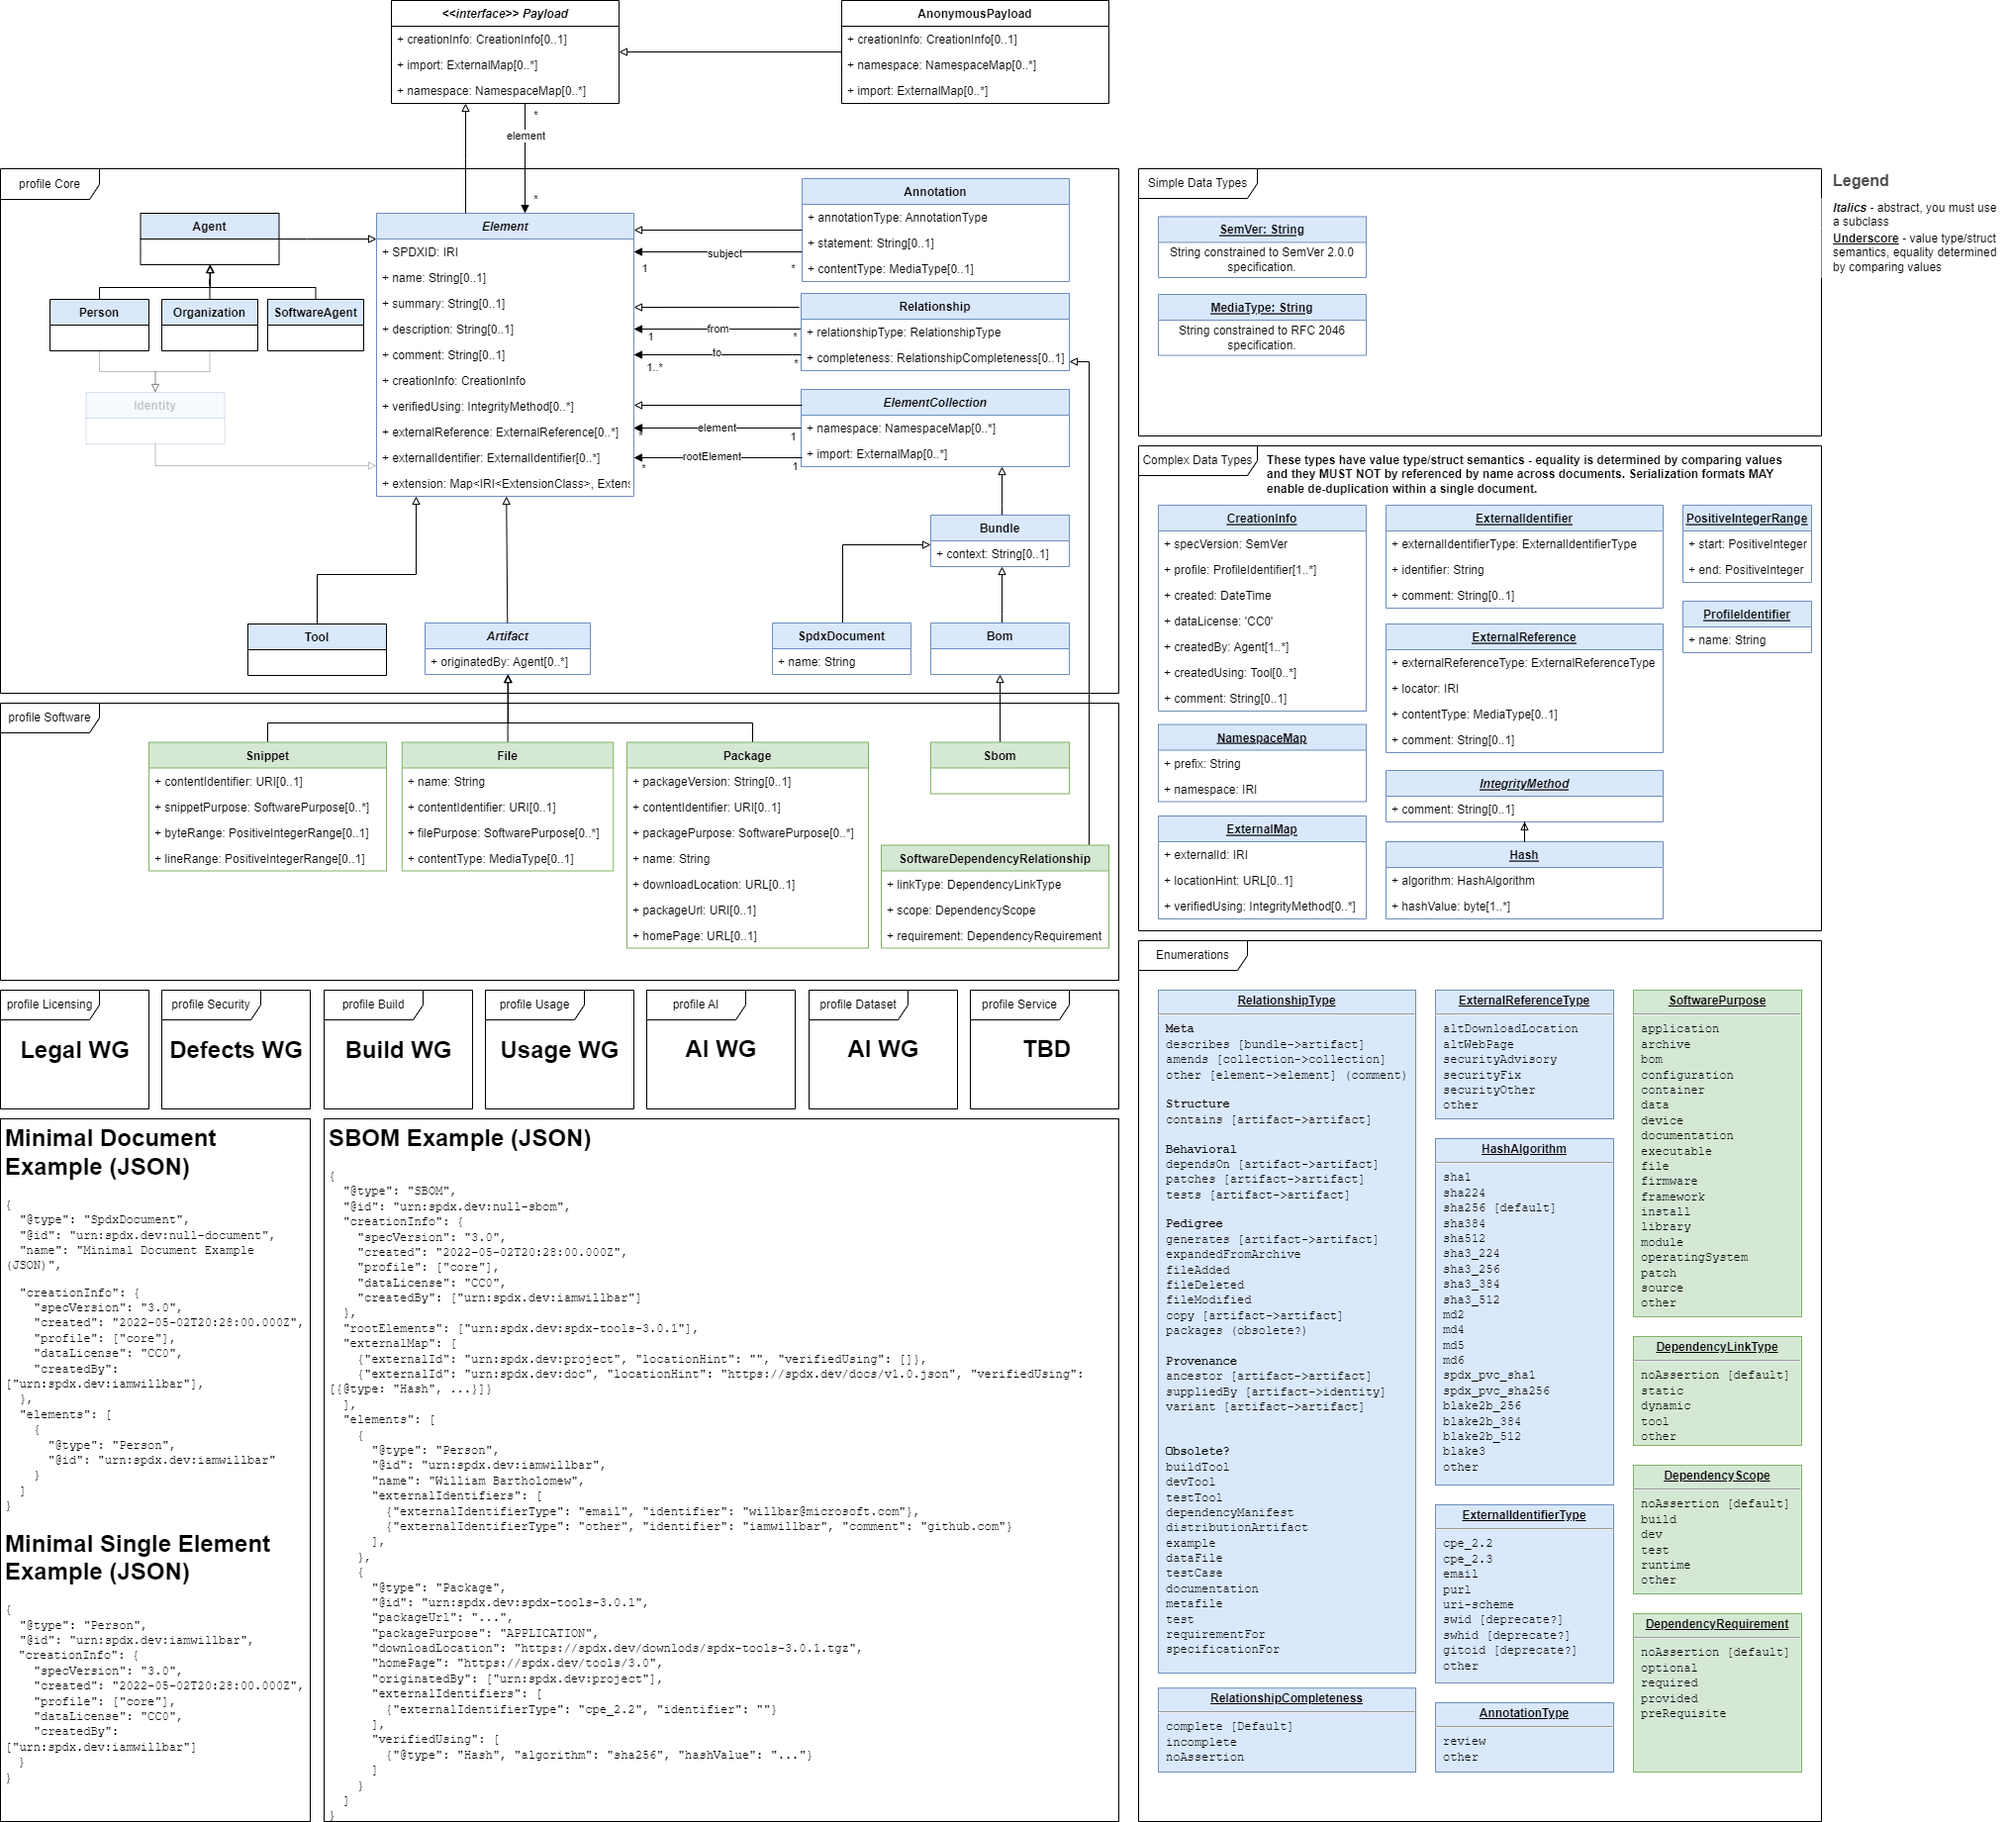
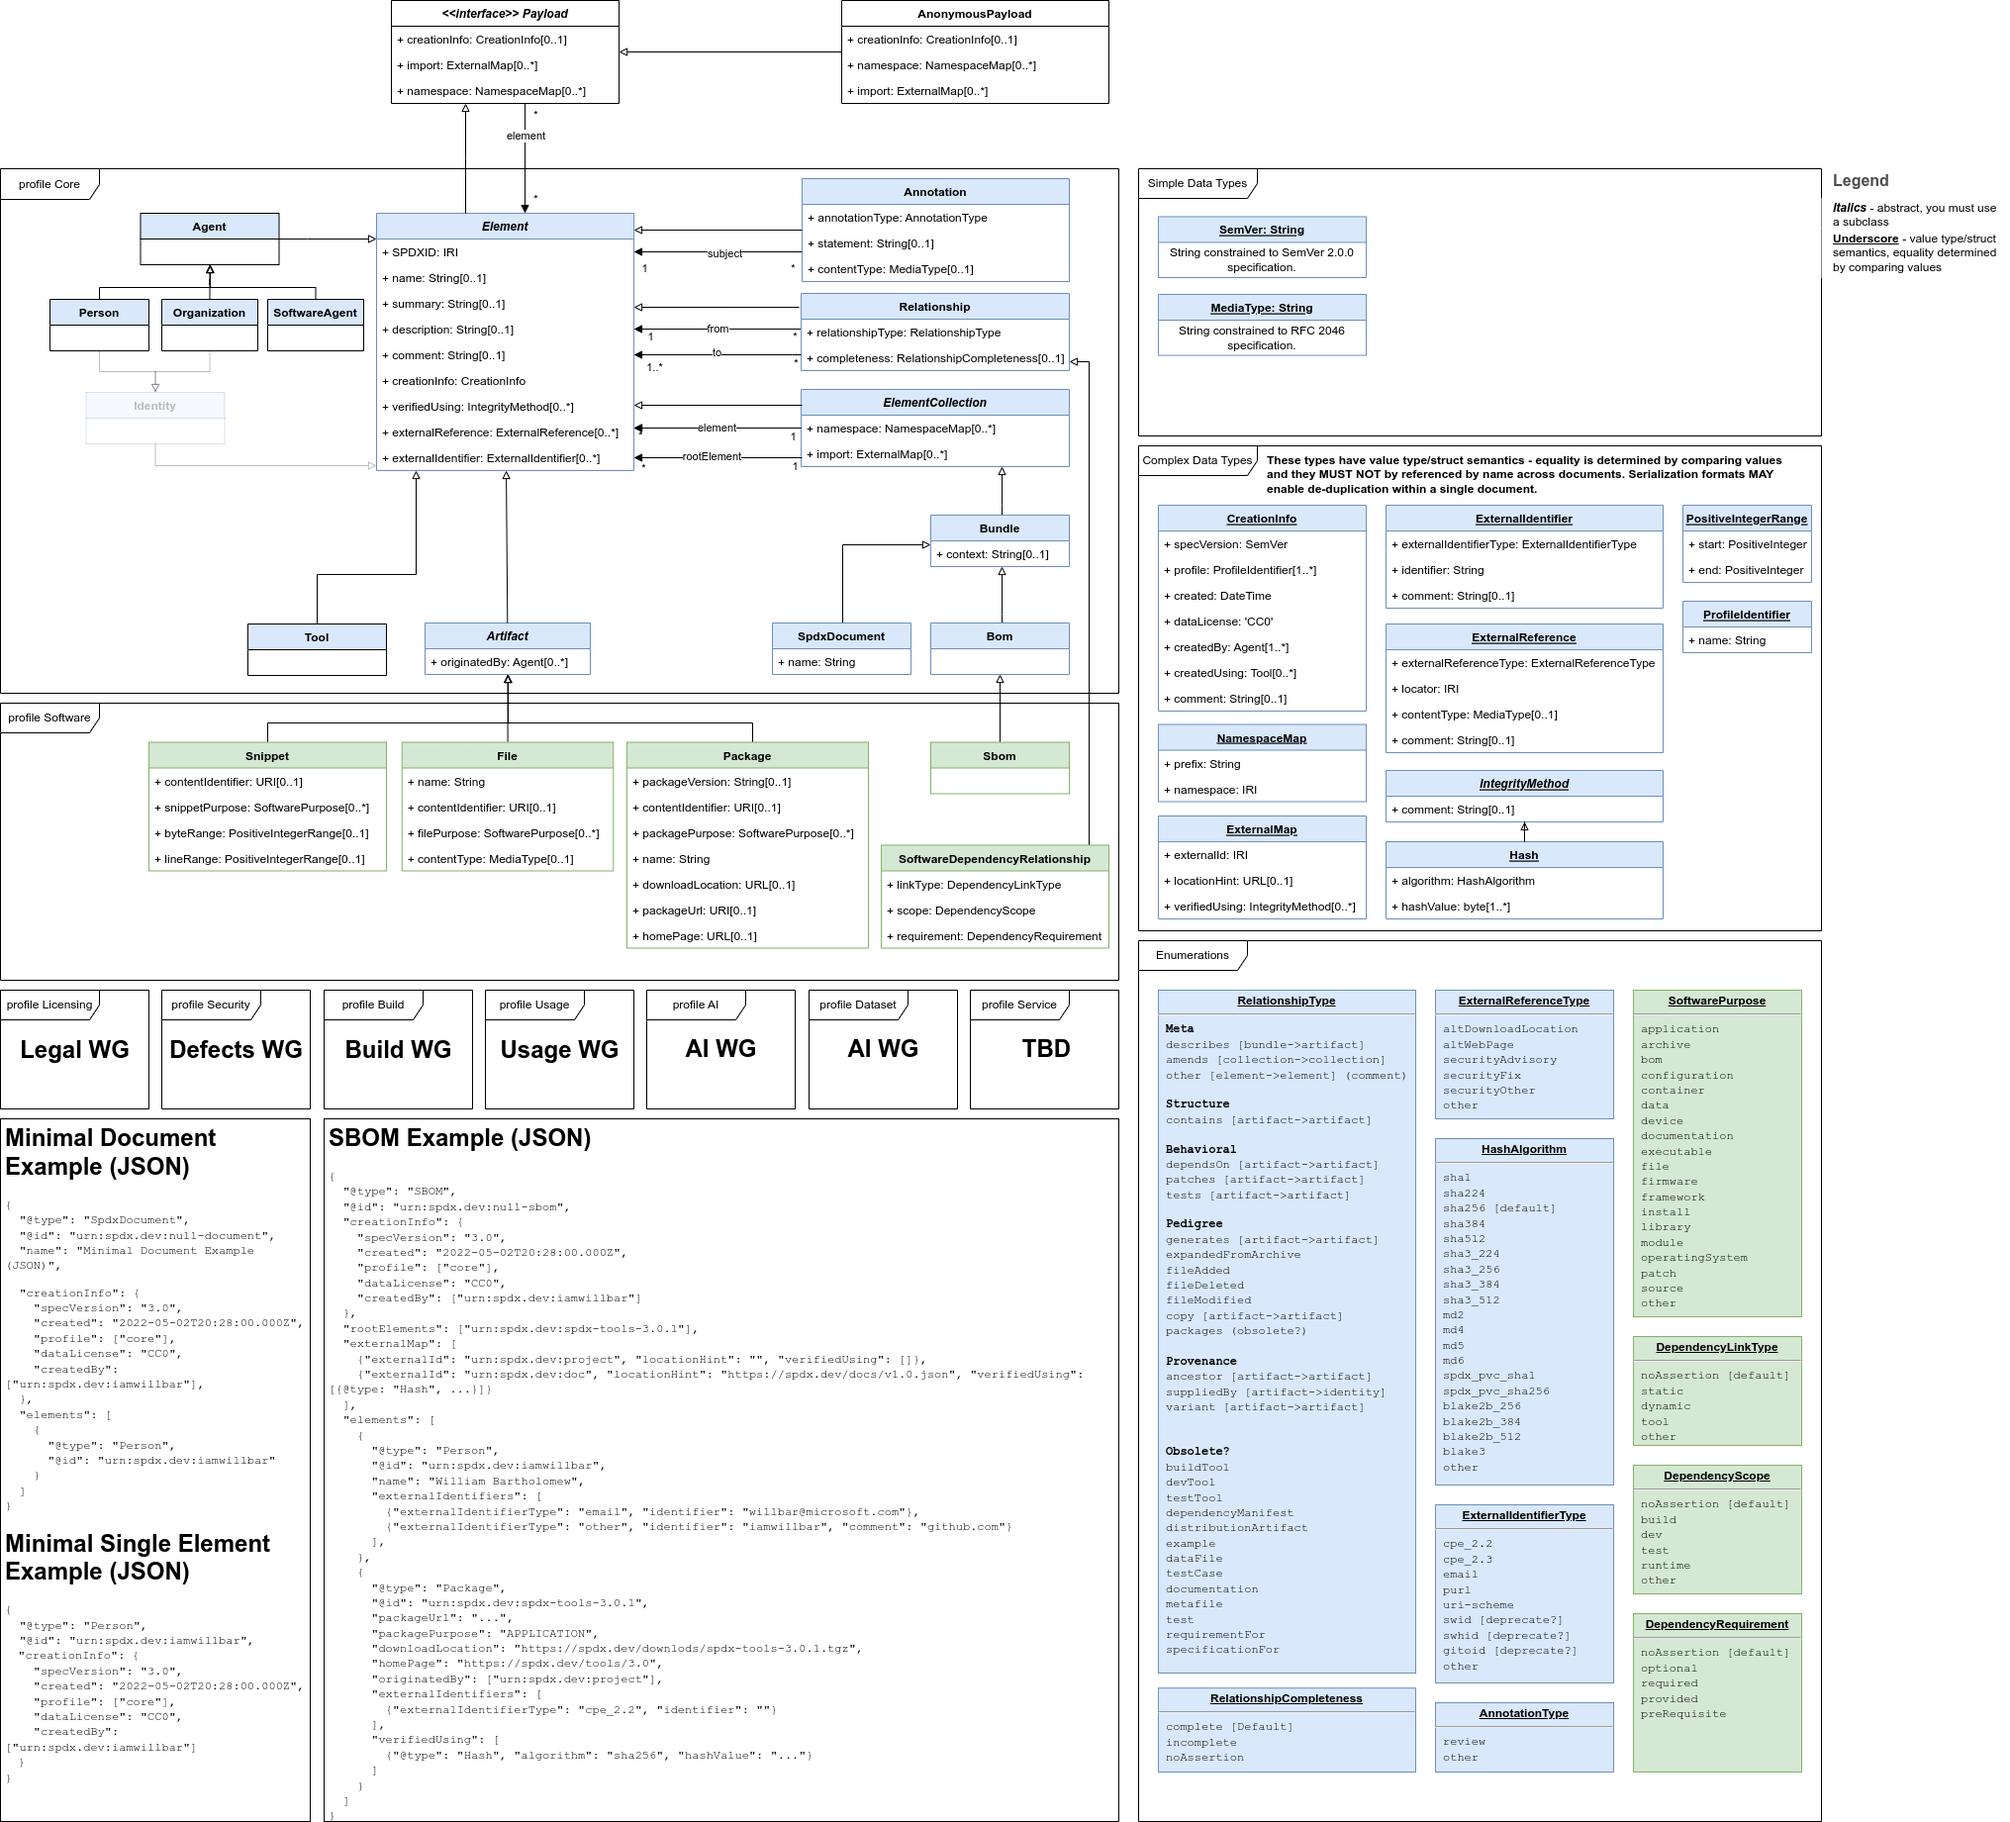
Drop extensions from Core (see #47)
this is the first part of #47

diff --git a/model/Core/Classes/Element.md b/model/Core/Classes/Element.md
@@ -49,6 +49,4 @@ and inter-relatable content objects.
   - type: ExternalReference
 - externalIdentifier
   - type: ExternalIdentifier
-- extension
-  - type: Extension
 
